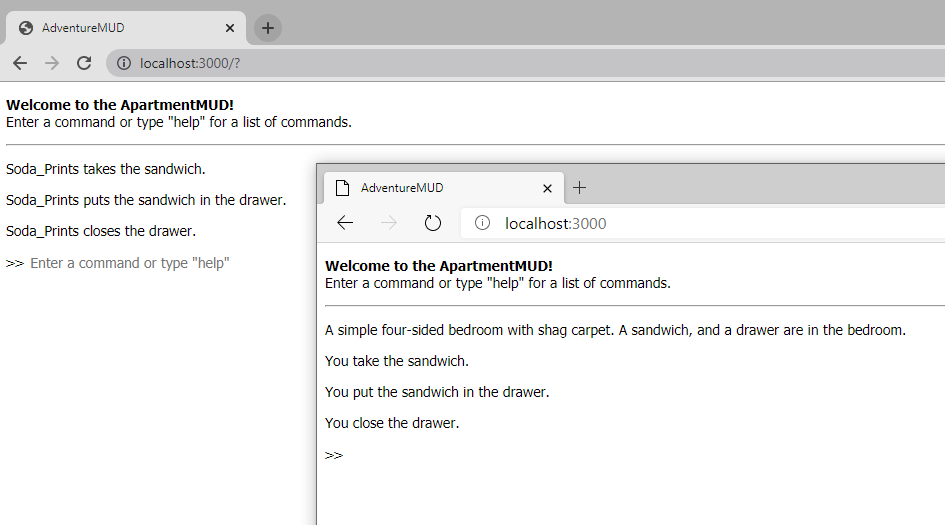
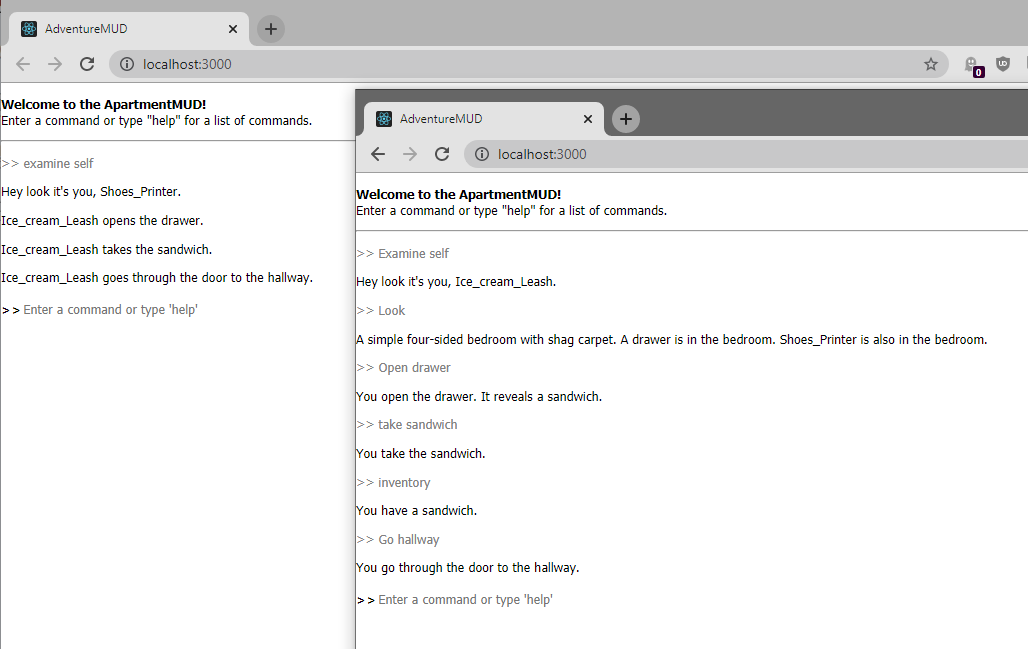
React cleanups (#22)
* cleaned up some react code

* updated example picture

Changed region(s): [[0.0, 0.0, 1.0, 1.0]]

diff --git a/react-app/aptmud-client/src/App.js b/react-app/aptmud-client/src/App.js
@@ -1,7 +1,6 @@
 import './App.css';
 import socketIOClient from "socket.io-client"
-import React, { useEffect, useState, setState, useRef } from 'react'
-const io = require('socket.io')
+import React, { useEffect } from 'react'
 
 const userId = Math.random().toString(36).substring(2, 15) + Math.random().toString(36).substring(2, 15);
 const ENDPOINT = "http://localhost:4000"
@@ -11,8 +10,6 @@ socket.on('connect', () => {
 })
 
 function App() {
-
-
 
 	useEffect(() => {
 		socket.on('chat message_' + userId, function (msg) {
@@ -26,11 +23,8 @@ function App() {
 
 	useEffect(() => {
 		socket.on("disconnect", (e) => {
-			if (document.getElementById('command')) {
-				newMessage("<p style='background-color:salmon;'><b>You have been disconnected. Please refresh.</b></p>");
-				document.getElementById('command').remove()
-			}
-
+			newMessage("<p style='background-color:salmon;'><b>You have been disconnected. Please refresh.</b></p>");
+			document.getElementById('command').remove()
 			socket.disconnect()
 		})
 	})
